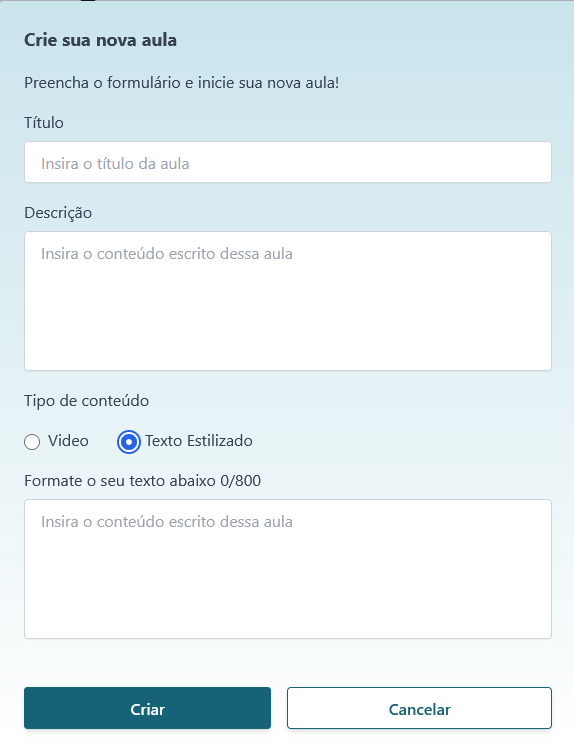
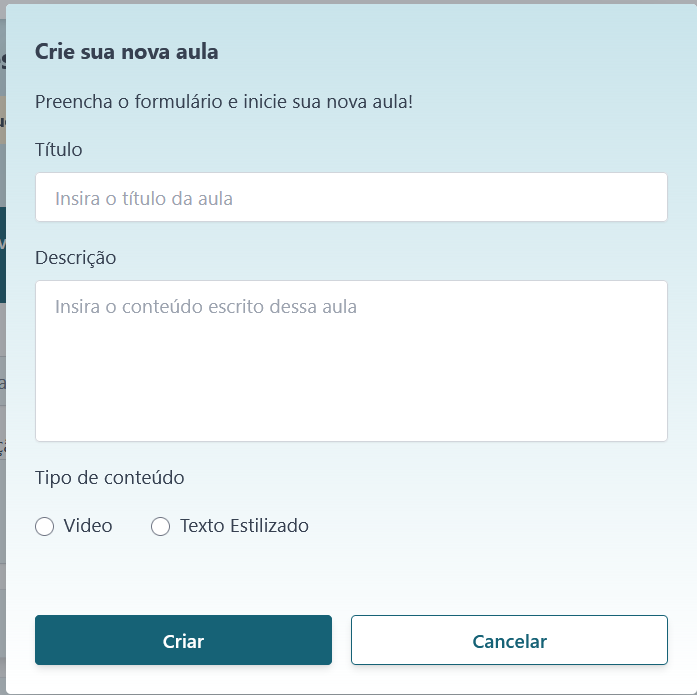
Fixed data of a project, fixed some warnings

diff --git a/src/components/Header.tsx b/src/components/Header.tsx
@@ -6,6 +6,14 @@ import { Menu, X } from "lucide-react";
 export default function Header() {
   const [isOpen, setIsOpen] = useState(false);
 
+  function toggleMenu() {
+    setIsOpen(!isOpen);
+  }
+
+  function closeMenu() {
+    setIsOpen(false);
+  }
+
   return (
     <header className="font-medium text-xl bg-[var(--primary)]/99  mx-auto fixed top-0 w-full shadow-lg z-50 px-6 py-3">
       <div className="flex items-center justify-between">
@@ -15,10 +23,7 @@ export default function Header() {
         </div>
 
         {/* Mobile Menu Button */}
-        <button
-          className="sm:hidden focus:outline-none"
-          onClick={() => setIsOpen(!isOpen)}
-        >
+        <button className="sm:hidden focus:outline-none" onClick={toggleMenu}>
           {isOpen ? <X size={32} /> : <Menu size={32} />}
         </button>
 
@@ -69,10 +74,7 @@ export default function Header() {
             isOpen ? "translate-y-0" : "-translate-y-full"
           } sm:hidden`}
         >
-          <button
-            className="absolute top-5 right-5"
-            onClick={() => setIsOpen(false)}
-          >
+          <button className="absolute top-5 right-5" onClick={closeMenu}>
             <X size={40} />
           </button>
 
@@ -82,7 +84,7 @@ export default function Header() {
             duration={100}
             offset={-120}
             className="cursor-pointer hover:text-[var(--secondary)]"
-            onClick={() => setIsOpen(false)}
+            onClick={closeMenu}
           >
             About
           </ScrollLink>
@@ -93,7 +95,7 @@ export default function Header() {
             duration={100}
             offset={-60}
             className="cursor-pointer hover:text-[var(--secondary)]"
-            onClick={() => setIsOpen(false)}
+            onClick={closeMenu}
           >
             Skills
           </ScrollLink>
@@ -103,7 +105,7 @@ export default function Header() {
             duration={100}
             offset={-80}
             className="cursor-pointer hover:text-[var(--secondary)]"
-            onClick={() => setIsOpen(false)}
+            onClick={closeMenu}
           >
             Projects
           </ScrollLink>
@@ -112,7 +114,7 @@ export default function Header() {
             smooth={true}
             duration={100}
             className="cursor-pointer hover:text-[var(--secondary)]"
-            onClick={() => setIsOpen(false)}
+            onClick={closeMenu}
           >
             Contact
           </ScrollLink>

diff --git a/src/data/projects.ts b/src/data/projects.ts
@@ -130,6 +130,7 @@ export const projects: Project[] = [
       "/images/p5/P5_ss2.png",
       "/images/p5/P5_ss3.png",
       "/images/p5/P5_ss4.png",
+      "/images/p5/P5_ss5.png",
     ],
     technologies: [
       "React",
